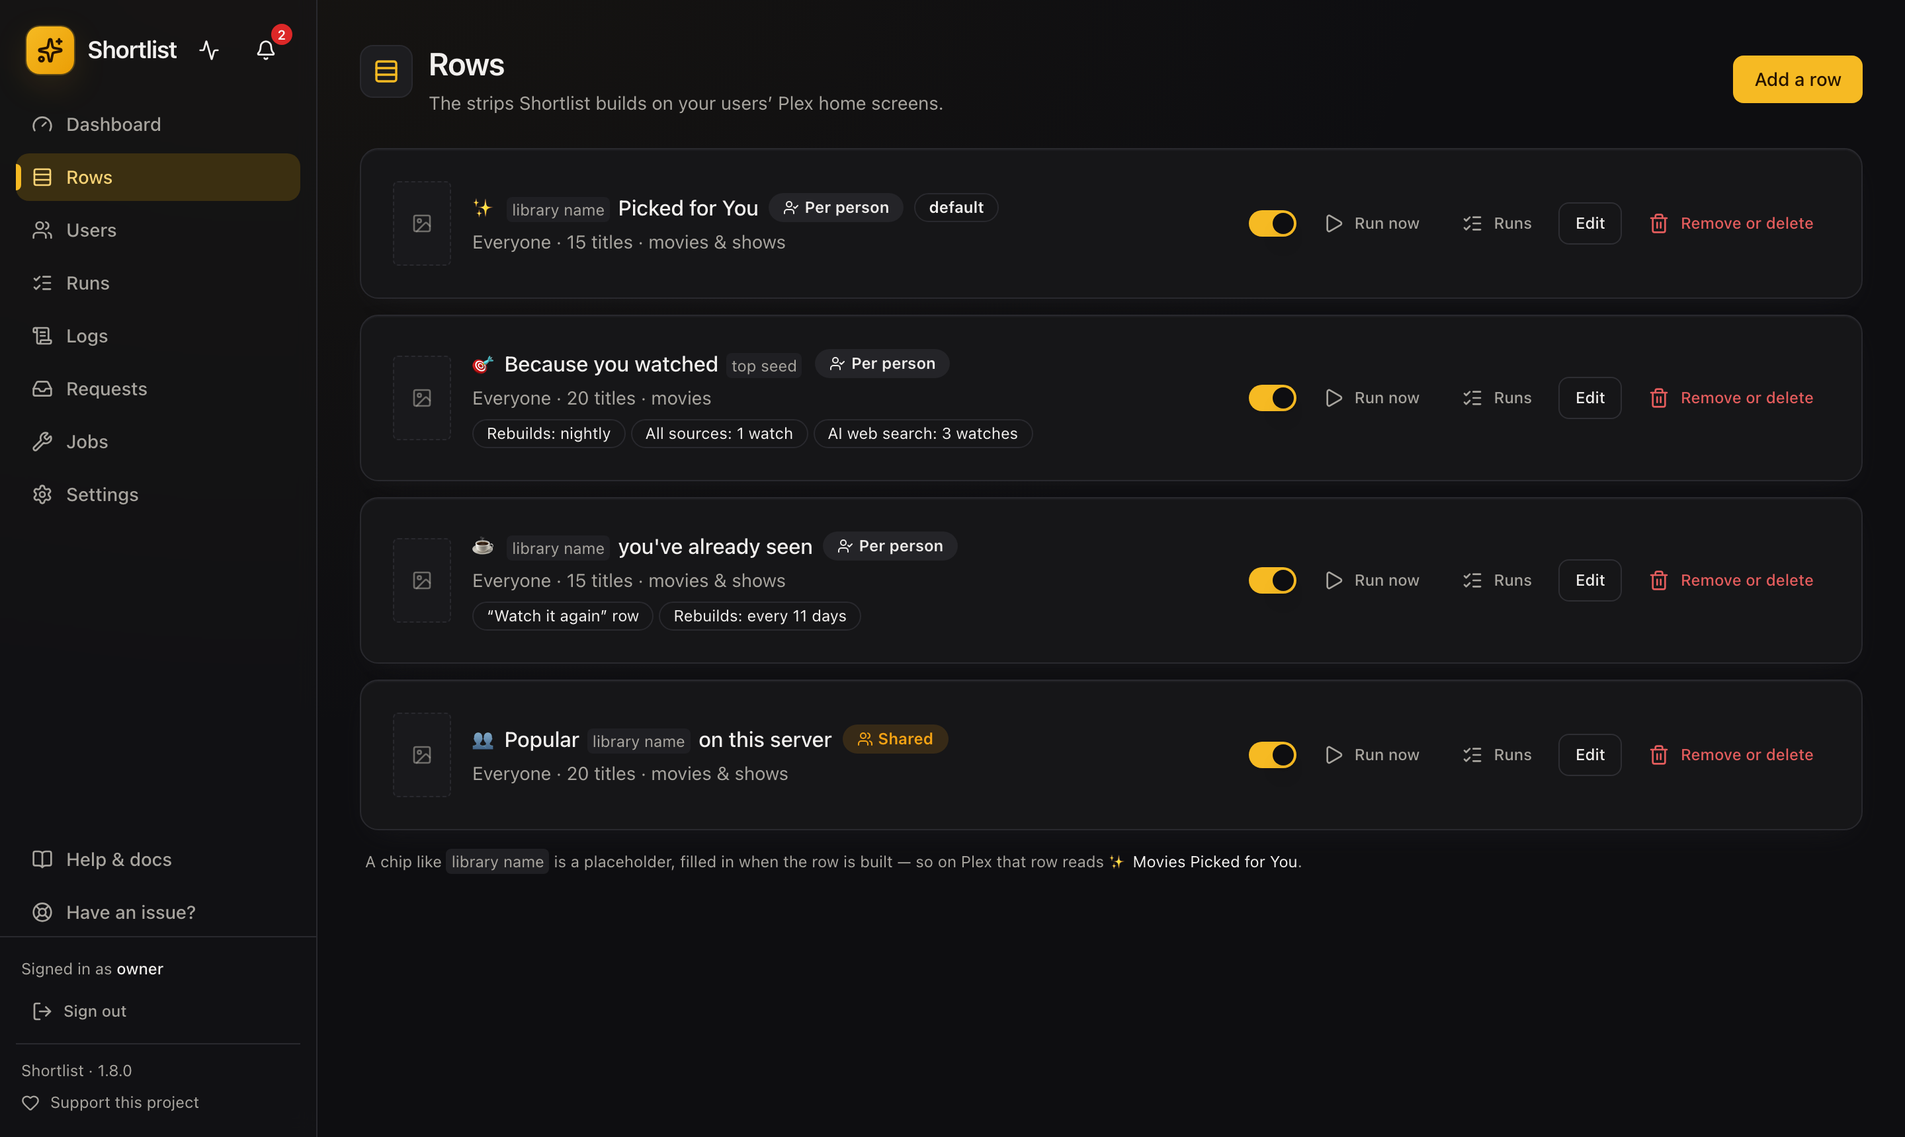
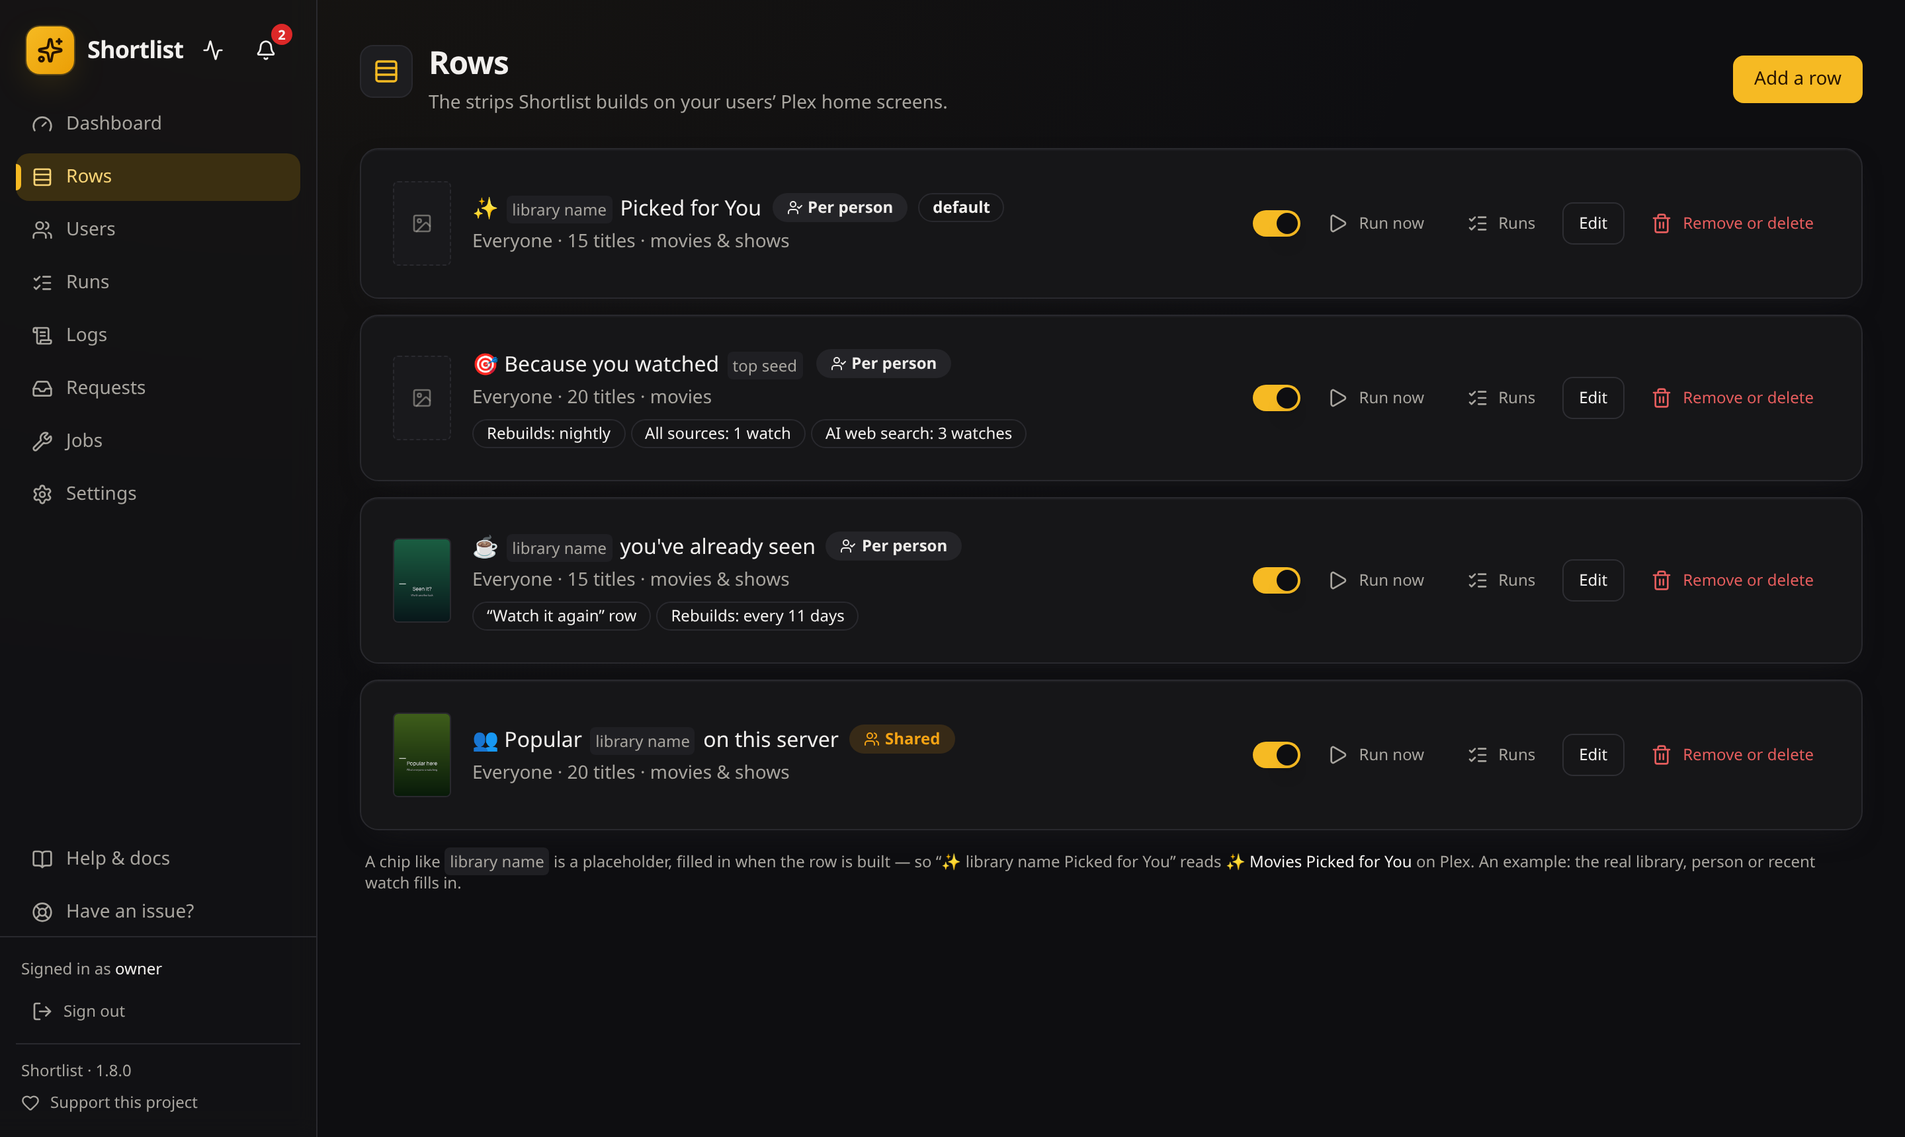
fix(docs): put real poster art back on the hero, and stop the Rows page showing four empty frames
The hero was rebuilt from the fake harness in c290b151, which traded real film
posters for honest gradient placeholders on the one image the site leads with.
The owner's verdict: "they do not show actual movie posters etc so it looks a
bit odd". It is his own Plex shelf again — the screenshot the site shipped for
a month, now committed as `tests/e2e/assets/plex-shelf-source.jpg` and edited
by code rather than by hand.

What that screenshot could not ship as, and why it was replaced in the first
place: four of its eight posters carried Plex's watched tick, so a "Picked for
You" row was advertising films the viewer had already seen. Three are repaired.
Schindler's List is not — its badge sits on the title lettering, so anything
put back there would be invented — and it is dropped instead, with the clipped
final poster sliding into its slot, which keeps the "this row continues" cue
the source had at its right edge.

The repair took four attempts and all four are recorded in the code, because
the next person will try them in the same order. Mirroring the strip beside the
badge duplicated recognisable detail (Brando's hair, the Dark Knight's towers).
Blurring a region that CONTAINED the badge smeared the badge's own darkness
across the corner. A flat per-row colour matched the hue but read as a blemish
against Shawshank's rain. Copying the patch below the badge gave Shawshank its
texture back and lifted the Dark Knight's flames into the sky. What holds for
[…]

diff --git a/docs/_layouts/home.html b/docs/_layouts/home.html
@@ -68,7 +68,7 @@ and left the reader to work out which picture went with which step.
 
       <figure class="hero__shot">
         <div class="frame">
-          <img src="{{ '/images/plex-picked-for-you.png' | relative_url }}" width="1600" height="404"
+          <img src="{{ '/images/plex-picked-for-you.jpg' | relative_url }}" width="1387" height="422"
                alt="A Movies Picked for You row on a Plex home screen, filled with film posters">
         </div>
         <figcaption>

diff --git a/tests/unit/test_hero_image.py b/tests/unit/test_hero_image.py
@@ -1,0 +1,212 @@
+"""The docs hero: the maintainer's own Plex shelf, with Plex's watched badges taken off it.
+
+`docs/images/plex-picked-for-you.jpg` is the first thing a visitor sees, on the site and in the
+README. It is derived from `tests/e2e/assets/plex-shelf-source.jpg` — a real screenshot of a real
+"Picked for You" row — rather than from the fake harness, because the harness's honest gradient
+placeholders read as an unfinished mock-up on exactly the image that has to look finished. The
+owner's words: "they do not show actual movie posters etc so it looks a bit odd."
+
+What the source cannot ship as: four of its eight posters carry Plex's watched tick, so the row
+Shortlist exists to fill was advertising films the viewer had already seen. Three are repaired,
+because the badge sits on artwork. The fourth is not, and is dropped rather than invented.
+
+This is a plain unit test on purpose. It drives no browser and no Plex, so it does not belong under
+`tests/e2e/` behind that suite's built-SPA gate — and being unconditional means CI re-runs the
+badge check on every commit, not only when someone regenerates the picture. Regenerate with:
+
+    SHOTS_DIR=docs/images .venv/bin/python -m pytest tests/unit/test_hero_image.py --no-cov
+
+Its siblings — `two-account.png` and `social-preview.png` — are captured by
+`tests/e2e/test_marketing_assets.py`, which does need a browser.
+"""
+
+from __future__ import annotations
+
+import os
+import random
+from pathlib import Path
+
+import pytest
+from PIL import Image, ImageChops, ImageDraw, ImageFilter, ImageStat
+
+SOURCE = Path(__file__).resolve().parents[1] / "e2e" / "assets" / "plex-shelf-source.jpg"
+
+#: Geometry of `assets/plex-shelf-source.jpg`, measured off the file rather than guessed: tiles sit
+#: on a 213px pitch from x=18, each poster 174x260 (2:3) starting at y=74. Plex's watched badge is a
+#: rounded square pinned to a poster's top-right corner, 45x46 from x=129.
+SHELF_PITCH, SHELF_X0, SHELF_Y0, POSTER_W = 213, 18, 74, 174
+BADGE_X0, BADGE_H = 129, 46
+#: Width of the badge-free strip beside the badge that the repair takes its colour from.
+BADGE_SRC = 30
+#: The checkmark glyph inside the badge, poster-local, and what counts as it being there.
+GLYPH_X0, GLYPH_X1, GLYPH_Y0, GLYPH_Y1 = 141, 163, 13, 30
+GLYPH_WHITE, GLYPH_MIN_PIXELS = 205, 30
+#: Above this, the corner is bright artwork rather than the badge's dark plate.
+PLATE_MAX_MEDIAN = 90
+#: Slots carrying a watched badge in the source, left to right.
+WATCHED_SLOTS = (0, 1, 2, 6)
+#: Slot 6 is Schindler's List, and its badge sits on the title lettering rather than on artwork, so
+#: nothing can be put back that is not invented. It is dropped instead: the shelf is cut after slot
+#: 5 and the clipped final poster slid into its place, which also keeps the "this row continues"
+#: cue the source had at its right edge.
+DROP_SLOT, LAST_SLOT = 6, 7
+
+
+def _row_colours(strip: Image.Image, width: int) -> Image.Image:
+    """`strip` reduced to one averaged colour per row, stretched back out to `width`.
+
+    A BOX downscale to a single column IS the per-row mean, which is why this needs no array
+    library — and it carries no horizontal structure, so nothing recognisable can be copied.
+    """
+    return strip.resize((1, strip.height), Image.BOX).resize((width, strip.height), Image.BILINEAR)
+
+
+def _grain(size: tuple[int, int], sigma: float, rng: random.Random) -> Image.Image:
+    """Gaussian grain centred on 128, from a SEEDED generator.
+
+    `Image.effect_noise` would do this in one call but seeds itself, and a capture that is not
+    byte-identical on a re-run churns the repo for no change.
+    """
+    width, height = size
+    data = bytes(max(0, min(255, int(rng.gauss(128, sigma)))) for _ in range(width * height))
+    return Image.frombytes("L", size, data).convert("RGB")
+
+
+def _unwatch(shelf: Image.Image, slot: int, rng: random.Random) -> None:
+    """Take Plex's watched badge off one poster, in place.
+
+    Four earlier attempts, each failing differently — recorded because the next person will try them
+    in the same order. Mirroring the strip beside the badge duplicated recognisable detail (Brando's
+    hair, the Dark Knight's towers). Blurring a region that CONTAINED the badge smeared the badge's
+    own darkness across the corner. A flat per-row colour matched the hue but read as a blemish
+    against Shawshank's rain. Copying the patch below the badge gave Shawshank its texture back and
+    lifted the Dark Knight's flames up into the sky.
+
+    What holds for all of them: the colour comes from the art BESIDE the badge, one value per row,
+    so no structure can be carried in; the grain is synthesised at the amplitude that art actually
+    has, so a rainy poster gets rain-ish noise and a black one gets almost none.
+    """
+    px = SHELF_X0 + slot * SHELF_PITCH
+    box = (px + BADGE_X0 - BADGE_SRC, SHELF_Y0, px + POSTER_W, SHELF_Y0 + BADGE_H + 18)
+    region = shelf.crop(box)
+    beside = region.crop((0, 0, BADGE_SRC, region.height))
+
+    # How grainy the art is right here: what is left of it once its own per-row colour is removed.
+    # A smooth gradient contributes nothing; rain contributes a lot.
+    residual = ImageChops.difference(beside, _row_colours(beside, BADGE_SRC))
+    sigma = min(26.0, 1.25 * max(ImageStat.Stat(residual).rms))
+
+    flat = _row_colours(beside, region.width)
+    patch = ImageChops.add(flat, _grain(region.size, sigma, rng), offset=-128)
+    patch = patch.filter(ImageFilter.GaussianBlur(0.6))
+
+    mask = Image.new("L", region.size, 0)
+    ImageDraw.Draw(mask).rounded_rectangle((BADGE_SRC - 2, -10, region.width + 10, BADGE_H), radius=12, fill=255)
+    region.paste(patch, (0, 0), mask.filter(ImageFilter.GaussianBlur(5)))
+    shelf.paste(region, box[:2])
+
+
+def _has_badge(shelf: Image.Image, slot: int) -> bool:
+    """Whether Plex's watched badge is on that poster.
+
+    Two conditions, because neither alone works on this shelf. "Bright pixels in the corner" calls
+    12 Angry Men watched — it is a near-white poster, and its corner has more white in it than any
+    real badge. "Dark corner" calls The Godfather Part II watched, whose corner is simply black art.
+    The badge is a white glyph ON a dark plate, so both have to hold at once, and measured over these
+    eight posters the two tests separate 46-60 glyph pixels from 0-13, and a plate median of 0-47
+    from artwork's 230.
+    """
+    left = SHELF_X0 + slot * SHELF_PITCH + BADGE_X0
+    right = min(SHELF_X0 + slot * SHELF_PITCH + POSTER_W, shelf.width)
+    # The last poster is clipped by the image edge, so its corner — badge and all — is not in the
+    # picture. Nothing to find, and cropping past the edge raises rather than clamping.
+    if right <= left:
+        return False
+
+    plate = shelf.crop((left, SHELF_Y0, right, SHELF_Y0 + BADGE_H)).convert("L")
+    glyph = shelf.crop(
+        (
+            SHELF_X0 + slot * SHELF_PITCH + GLYPH_X0,
+            SHELF_Y0 + GLYPH_Y0,
+            min(SHELF_X0 + slot * SHELF_PITCH + GLYPH_X1, shelf.width),
+            SHELF_Y0 + GLYPH_Y1,
+        )
+    ).convert("L")
+
+    glyph_hist = glyph.histogram()
+    if sum(glyph_hist[GLYPH_WHITE:]) <= GLYPH_MIN_PIXELS:
+        return False
+    # The plate around the glyph, by subtracting one histogram from the other — the glyph box sits
+    # wholly inside the plate, so what is left is the plate's own darkness.
+    around = [p - g for p, g in zip(plate.histogram(), glyph_hist, strict=True)]
+    half = sum(around) / 2
+    seen = 0
+    for value, count in enumerate(around):
+        seen += count
+        if seen >= half:
+            return value < PLATE_MAX_MEDIAN
+    return False
+
+
+def build_hero() -> Image.Image:
+    """The shelf as it ships: badges off, the unrepairable poster dropped, the row still continuing."""
+    shelf = Image.open(SOURCE).convert("RGB")
+    carrying = [slot for slot in range(8) if _has_badge(shelf, slot)]
+    assert carrying == list(WATCHED_SLOTS), (
+        f"the source carries watched badges on slots {carrying}, not {list(WATCHED_SLOTS)} — "
+        "re-measure the geometry constants above against the new file before trusting this"
+    )
+
+    # Seeded: a re-run must be byte-identical, or regenerating the picture churns the repo.
+    rng = random.Random(20260907)
+    for slot in WATCHED_SLOTS:
+        if slot != DROP_SLOT:
+            _unwatch(shelf, slot, rng)
+
+    clipped = shelf.crop((SHELF_X0 + LAST_SLOT * SHELF_PITCH, 0, shelf.width, shelf.height))
+    width = SHELF_X0 + DROP_SLOT * SHELF_PITCH + clipped.width
+    hero = shelf.crop((0, 0, width, shelf.height))
+    hero.paste(clipped, (SHELF_X0 + DROP_SLOT * SHELF_PITCH, 0))
+    # The scroll chevrons sat at the far right of the source header; bring them to the new one.
+    hero.paste(shelf.crop((1500, 0, 1590, SHELF_Y0)), (width - 100, 0))
+    return hero
+
+
+def test_no_poster_on_the_hero_says_the_viewer_already_watched_it() -> None:
+    """The whole reason this file exists, checked on every commit rather than every regeneration.
+
+    A "Picked for You" row selling four films the viewer has already seen is the exact failure the
+    product exists to prevent, and it led the site for a month because nobody can diff a JPEG.
+    """
+    hero = build_hero()
+
+    still_badged = [slot for slot in range(DROP_SLOT + 1) if _has_badge(hero, slot)]
+    assert not still_badged, f"slots {still_badged} still carry Plex's watched badge"
+
+
+def test_the_shelf_keeps_its_continues_past_the_edge_cue() -> None:
+    """Dropping a poster must not turn a scrollable row into one that stops.
+
+    The source ended mid-poster at its right edge, which is what a Plex shelf looks like. Cutting the
+    unrepairable poster out of the middle and closing the gap would have ended the row flush.
+    """
+    hero = build_hero()
+
+    last = SHELF_X0 + DROP_SLOT * SHELF_PITCH
+    assert last < hero.width < last + POSTER_W, (
+        f"the final poster runs {last}..{last + POSTER_W} but the image is {hero.width} wide — "
+        "it is either cut off entirely or shown whole, and neither reads as 'this row continues'"
+    )
+
+
+def test_regenerates_the_committed_image_when_asked() -> None:
+    """Writes only under SHOTS_DIR, so an ordinary test run never touches `docs/`."""
+    out = os.environ.get("SHOTS_DIR")
+    if not out:
+        pytest.skip("set SHOTS_DIR to write the image")
+    path = Path(out) / "plex-picked-for-you.jpg"
+    path.parent.mkdir(parents=True, exist_ok=True)
+    # JPEG, not PNG: this is photography, and the same picture costs 613KB as a PNG against 120KB
+    # here. It is the first image on the landing page, so that difference is the page's load time.
+    build_hero().save(path, "JPEG", quality=88, optimize=True, progressive=True)
+    assert path.exists()

diff --git a/tests/e2e/test_marketing_assets.py b/tests/e2e/test_marketing_assets.py
@@ -6,12 +6,10 @@ because neither picture is a Shortlist screen.
 
     SHOTS_DIR=docs/images .venv/bin/python -m pytest tests/e2e/test_marketing_assets.py -m e2e --no-cov -n0
 
-- `plex-picked-for-you.png` the hero: one delivered row as a Plex Home shelf. Replaces a real
-                      screenshot of the maintainer's own server, on which four of the eight visible
-                      titles carried Plex's watched tick — a "Picked for You" row advertising films
-                      the viewer had already seen, which is the exact failure the product exists to
-                      prevent. Built from the harness instead, so the shelf holds what the engine
-                      actually delivered and the test can ASSERT nothing on it is watched.
+- `plex-picked-for-you.jpg` is NOT captured here. It needs no browser and no Plex, so it lives in
+                      `tests/unit/test_hero_image.py` — which also means its checks run on every
+                      commit rather than only when someone regenerates it. Its source screenshot is
+                      `assets/plex-shelf-source.jpg`.
 - `two-account.png`   two accounts' Plex Home hubs, side by side, read through their OWN server
                       tokens. Every poster on it is the fake PMS's real answer to that account's
                       token, so the picture cannot claim a privacy result the harness doesn't have.
@@ -61,99 +59,6 @@ def _shot_path(name: str) -> Path:
     out = Path(SHOTS_DIR) / name
     out.parent.mkdir(parents=True, exist_ok=True)
     return out
-
-
-#: Tiles across the hero shelf. Eight fit at a readable size in the 1600px the docs site reserves,
-#: and a ninth is rendered deliberately half-clipped by the right edge — a Plex shelf always
-#: continues past the fold, and one ending flush reads as a short row rather than a scrollable one.
-HERO_TILES = 8
-
-
-def _hero_shelf(app: ShortlistApp, account_id: int) -> tuple[str, list[dict[str, str]]]:
-    """That account's first Shortlist row, as (row title, tiles)."""
-    for _key, title, tiles in _rows_visible_to(app, account_id):
-        if tiles:
-            return title, tiles
-    raise AssertionError(f"account {account_id} has no Shortlist row to photograph")
-
-
-def _hero_html(pms_url: str, row_title: str, tiles: list[dict[str, str]]) -> str:
-    cards = "".join(
-        f"""
-      <li class="tile">
-        <img src="{html.escape(pms_url + tile["thumb"])}" alt="">
-        <p class="tile__title">{html.escape(tile["title"])}</p>
-        <p class="tile__year">{html.escape(tile["year"])}</p>
-      </li>"""
-        for tile in tiles
-    )
-    return f"""<!doctype html>
-<html><head><meta charset="utf-8"><style>
-  :root {{{PALETTE}
-    --font: ui-sans-serif, -apple-system, BlinkMacSystemFont, "Segoe UI", Roboto, sans-serif;
-  }}
-  * {{ box-sizing: border-box; }}
-  /* Plex's own shelf background, not the docs site's: the picture is meant to read as Plex. */
-  body {{
-    margin: 0; padding: 26px 0 22px 28px; width: 1600px; overflow: hidden;
-    background: #101013; color: #f4f4f5; font-family: var(--font); -webkit-font-smoothing: antialiased;
-  }}
-  .shelf {{ display: flex; align-items: center; gap: 12px; margin: 0 28px 18px 0; }}
-  .shelf h2 {{ margin: 0; font-size: 30px; font-weight: 700; letter-spacing: -0.01em; }}
-  .shelf .chevrons {{ margin-left: auto; display: flex; gap: 18px; color: #6f6f7a; }}
-  .shelf svg {{ width: 22px; height: 22px; }}
-  /* One row that overflows on purpose — see HERO_TILES. */
-  .tiles {{ display: flex; gap: 16px; margin: 0; padding: 0; list-style: none; }}
-  .tile {{ flex: 0 0 168px; }}
-  .tile img {{
-    display: block; width: 168px; height: 252px; object-fit: cover;
-    border-radius: 6px; background: var(--surface-2);
-  }}
-  .tile__title {{
-    margin: 10px 0 2px; font-size: 15px; font-weight: 500; color: #e8e8ec;
-    white-space: nowrap; overflow: hidden; text-overflow: ellipsis;
-  }}
-  .tile__year {{ margin: 0; font-size: 14px; color: #86868f; }}
-</style></head>
-<body>
-  <div class="shelf">
-    <h2>{html.escape(row_title)}</h2>
-    <span class="chevrons">
-      <svg viewBox="0 0 24 24" fill="none" stroke="currentColor" stroke-width="2"><path d="M15 6l-6 6 6 6"/></svg>
-      <svg viewBox="0 0 24 24" fill="none" stroke="currentColor" stroke-width="2"><path d="M9 6l6 6-6 6"/></svg>
-    </span>
-  </div>
-  <ul class="tiles">{cards}</ul>
-</body></html>"""
-
-
-@skip_unless_capturing
-def test_capture_hero_shelf(browser: Browser, app: ShortlistApp, reset_fake_plex) -> None:
-    """Sarah's delivered movie row, drawn as the Plex shelf it becomes.
-
-    The assertion is the point of doing this from the harness rather than by hand: every title on
-    the hero must be one Sarah has NOT watched. The image it replaces failed that, and nothing could
-    have told anyone, because it was a photograph.
-    """
-    state = reset_fake_plex
-    build_real_rows(app)
-
-    row_title, tiles = _hero_shelf(app, 201)
-    assert len(tiles) >= HERO_TILES, f"the row holds {len(tiles)} titles — too few to fill the hero"
-    tiles = tiles[: HERO_TILES + 1]
-
-    watched = state.watched_now(201)
-    already_seen = [tile["title"] for tile in tiles if int(tile["key"]) in watched]
-    assert not already_seen, f"the hero would advertise titles Sarah has already watched: {already_seen}"
-    assert all(tile["thumb"] for tile in tiles), "a tile has no artwork path — the hero would show a gap"
-
-    context = browser.new_context(viewport={"width": 1600, "height": 440}, device_scale_factor=2)
-    page = context.new_page()
-    page.set_content(_hero_html(app.pms_url, row_title, tiles))
-    # Posters come off the fake PMS over HTTP, so the shelf is empty until they land.
-    page.wait_for_load_state("networkidle")
-    page.locator("body").screenshot(path=str(_shot_path("plex-picked-for-you.png")))
-    context.close()
 
 
 def _rows_visible_to(app: ShortlistApp, account_id: int) -> list[tuple[int, str, list[dict[str, str]]]]:

diff --git a/tests/e2e/test_screenshots.py b/tests/e2e/test_screenshots.py
@@ -135,12 +135,18 @@ EXTRA_ROWS = (
         "watched_pct": 1,
         "refresh_days": 11,
         "size": 15,
+        # Two of the four rows carry a poster, and two deliberately do not. Every row on this page
+        # used to show the same empty dashed placeholder, which reads as a broken page rather than
+        # as a feature nobody has switched on — and it hid the row-poster feature entirely. Showing
+        # both states says which it is.
+        "poster": {"mode": "text", "title": "Seen it?", "subtitle": "Worth another look"},
     },
     {
         "name": "👥 Popular {library_name} on this server",
         "build": "shared",
         "min_watchers": 3,
         "size": 20,
+        "poster": {"mode": "text", "title": "Popular here", "subtitle": "What everyone is watching"},
     },
 )
 

diff --git a/README.md b/README.md
@@ -64,10 +64,11 @@ picks titles from your library they haven't seen but probably want to, explains 
 them on that person's Plex home screen as a **"Picked for You"** collection. It refreshes on a
 schedule you set, and each row is visible only to its owner.
 
-![A "Movies Picked for You" row on Plex](docs/images/plex-picked-for-you.png)
+![A "Movies Picked for You" row on Plex](docs/images/plex-picked-for-you.jpg)
 
-<sub>What lands on Plex: a "Picked for You" row, private to that user. Shown with the demo
-library the test suite ships, so the titles are placeholders — the layout is Plex's own.</sub>
+<sub>What lands on Plex: a "Picked for You" row, private to that user. A real row on the
+maintainer's server, with Plex's watched ticks edited out — the run that produced it predates the
+freshness work, and the picture should show what the row is for rather than a bug since fixed.</sub>
 
 **It slots into the stack you already run.** Watch history comes straight from Plex (Tautulli
 optional), candidates from TMDB and Trakt, and gaps can be handed to **Radarr/Sonarr** — while
